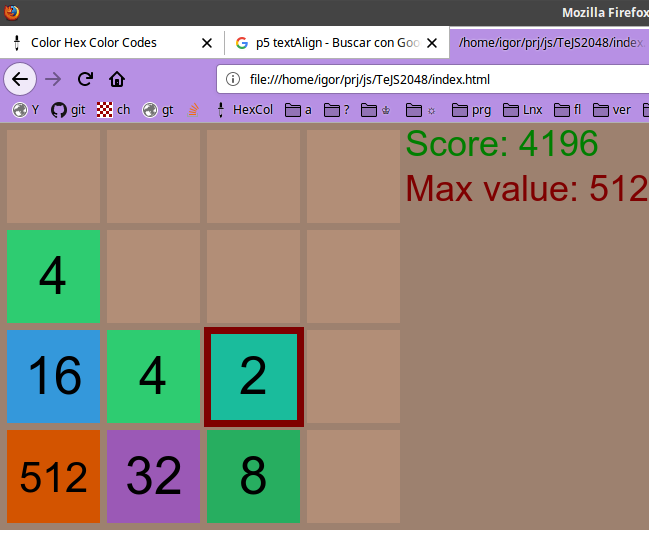
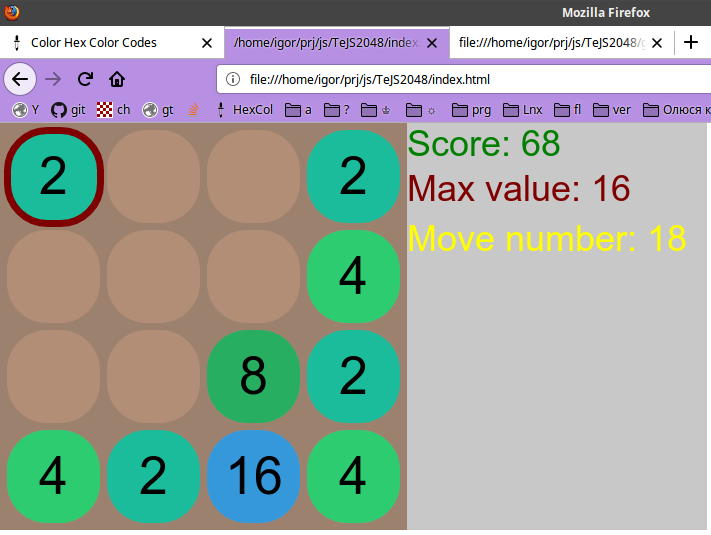
rounded rects and move count

diff --git a/game.js b/game.js
@@ -18,6 +18,7 @@ const WINNIG_SCORE = 2048;
 const START_TILE_COUNT = 2;
 const ANIMATION_SPEED = 10;
 const SIDE_INFO_PANEL_WIDTH = 300;
+const RADIUS = 40;
 var tileSize = 100;
 let rowCount = 4;
 let colCount = 4;
@@ -30,6 +31,7 @@ let gameState = GameState.PLAYING;
 let slidingDirection = Direction.RIGHT;
 let maxTileValue = 2;
 let score = 0;
+let numMoves = 0;
 let isAnimationActive = false;
 
 function setup() {
@@ -67,6 +69,7 @@ function startNewGame(){
 	maxTileValue = 2;
  	score = 0;
 	isAnimationActive = false;
+	numMoves = 0;
 	tiles = [];
 	mergingTiles = [];
 	grid = createMatrix(rowCount,colCount, 0);
@@ -290,7 +293,7 @@ function renderEmptyField(){
 			fill("#b28e77");
 			noStroke();
 			rect(x * tileSize + HALF_GAP, y * tileSize + HALF_GAP,
-		 		 tileSize - HALF_GAP, tileSize - HALF_GAP);	
+		 		 tileSize - HALF_GAP, tileSize - HALF_GAP, RADIUS, RADIUS);	
 		});
 	});
 }
@@ -350,6 +353,7 @@ function gameTick(){
 
 			if(checkIfSomethingMoved()){
 				placeNewTile();
+				++numMoves;
 			}
 		}
 	}
@@ -389,13 +393,17 @@ function draw() {
 
 function renderGameInfo(){
 	const rightBorder = colCount * tileSize;
+	fill(200,200,200);
 	noStroke();
+	rect(rightBorder + HALF_GAP, 0, canvasWidth - rightBorder, canvasHeight);
 	textSize(36);
 	textAlign(LEFT, TOP);
 	fill(0,127,0);
-	text("Score: " + score, rightBorder + 5, 5);
+	text("Score: " + score, rightBorder + HALF_GAP, 5);
 	fill(127,0,0);
-	text("Max value: " + maxTileValue, rightBorder + 5, 50);
+	text("Max value: " + maxTileValue, rightBorder + HALF_GAP, 50);
+	fill(255,255,0);
+	text("Move number: " + numMoves, rightBorder + HALF_GAP, 100);
 	fill(0,0,127);
 	textSize(24);
 	switch(gameState){
@@ -403,12 +411,12 @@ function renderGameInfo(){
 			fill(0,255,0);
 			text("Congratulations!You won!!!\n" +
 				"Press space to keep going\n" + 
-				"or N to start new game", rightBorder + 5, 100);
+				"or N to start new game", rightBorder + HALF_GAP, 150);
 			break;
 		case GameState.DEFEAT:
 			fill(255,0,0);
 			text("Game over!!!\nPress N to start new game", 
-				rightBorder + 5, 100);
+				rightBorder + HALF_GAP, 150);
 			break;
 		default:
 			break;

diff --git a/tile.js b/tile.js
@@ -31,7 +31,7 @@ class Tile {
 			}			
 
 			rect(this.x + HALF_GAP, this.y + HALF_GAP, tileSize - HALF_GAP,
-			 tileSize - HALF_GAP);
+			 tileSize - HALF_GAP, RADIUS, RADIUS);
 			fill(0,0,0);
 			textFont('Arial');
 			textAlign(CENTER, CENTER);

diff --git a/config.js b/config.js
@@ -1,5 +1,3 @@
-
-
 function getColorSize(value){
 	switch(value){
         case 2:
